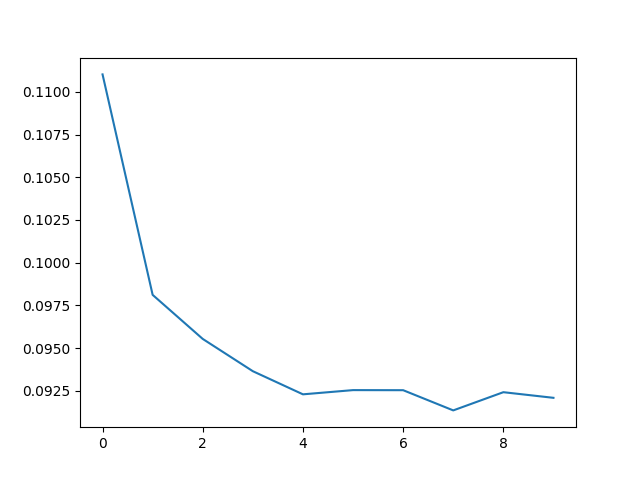
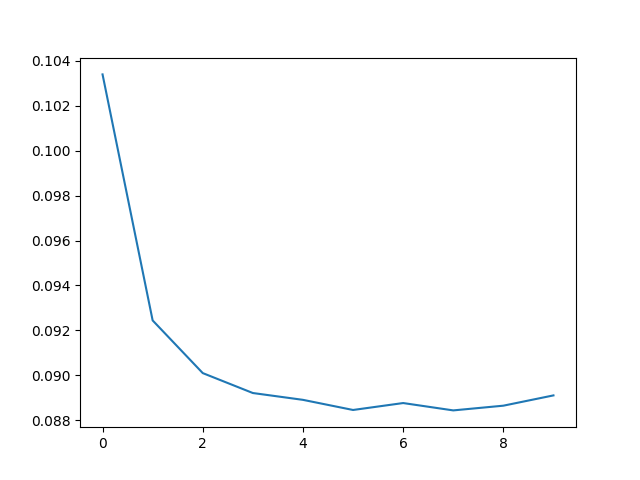
bug fixes

diff --git a/src/hyperparameters.py b/src/hyperparameters.py
@@ -49,7 +49,7 @@ class Config:
 
     ## Network parameters
     hidden_dim: int = 5 # . . . . . . . . Dimension of the hidden state
-    num_layers: int = 2 # . . . . . . . . Number of layers for the generator
+    num_layers: int = 1 # . . . . . . . . Number of layers for the generator
     lookback: int = 10 # . . . . . . . . Length of the input sequences
     privileged_lookback: int = 5 #. . . . Length of the privileged lookback
     discretization: int = 2 # . . . . . . Number of std intervals to consider

diff --git a/src/ffsd_training.py b/src/ffsd_training.py
@@ -229,10 +229,7 @@ def train_model(X_train:torch.Tensor,
         - `val_frequency`: after how many epochs to run a validation epoch
     '''
     hparams = Config()
-    try:
-        data_dim = X_train.size()[2]
-    except:
-        data_dim = 1
+    data_dim = int(X_train.size()[1] / lookback)
     device = torch.device("cuda" if torch.cuda.is_available() else "cpu")
     print(f"Using device {device}.")
     input_size = data_dim
